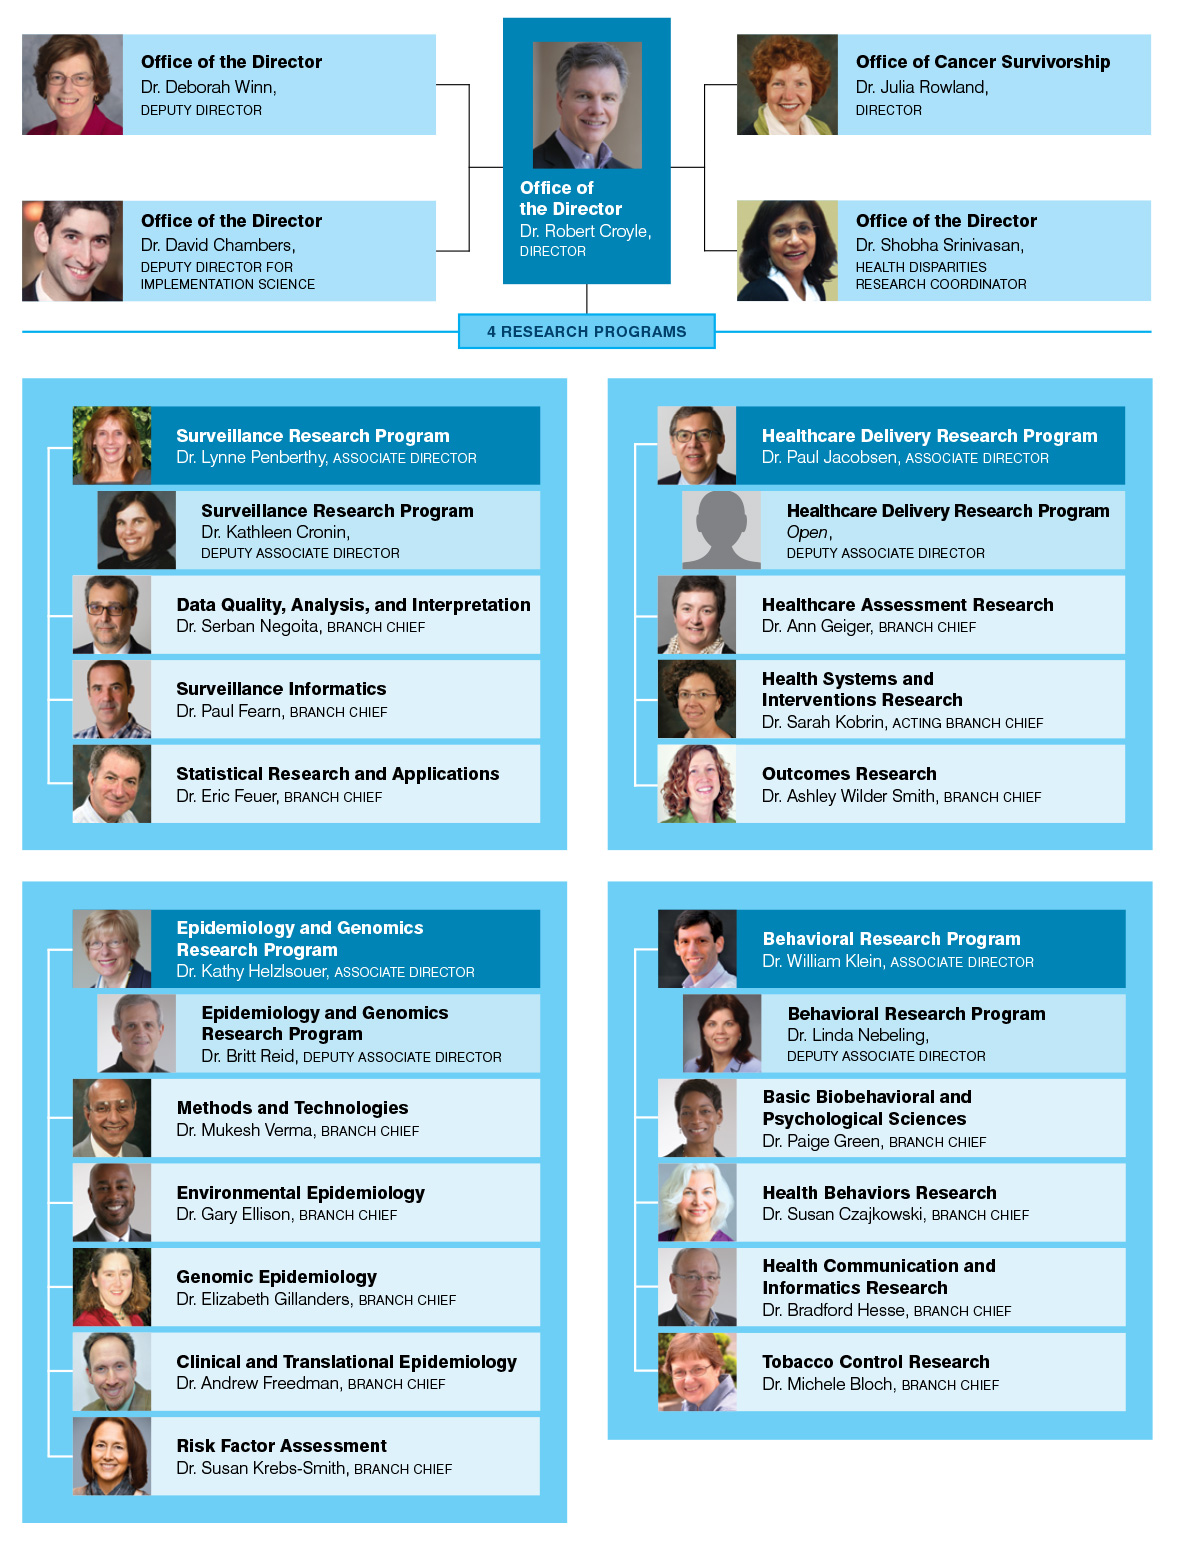
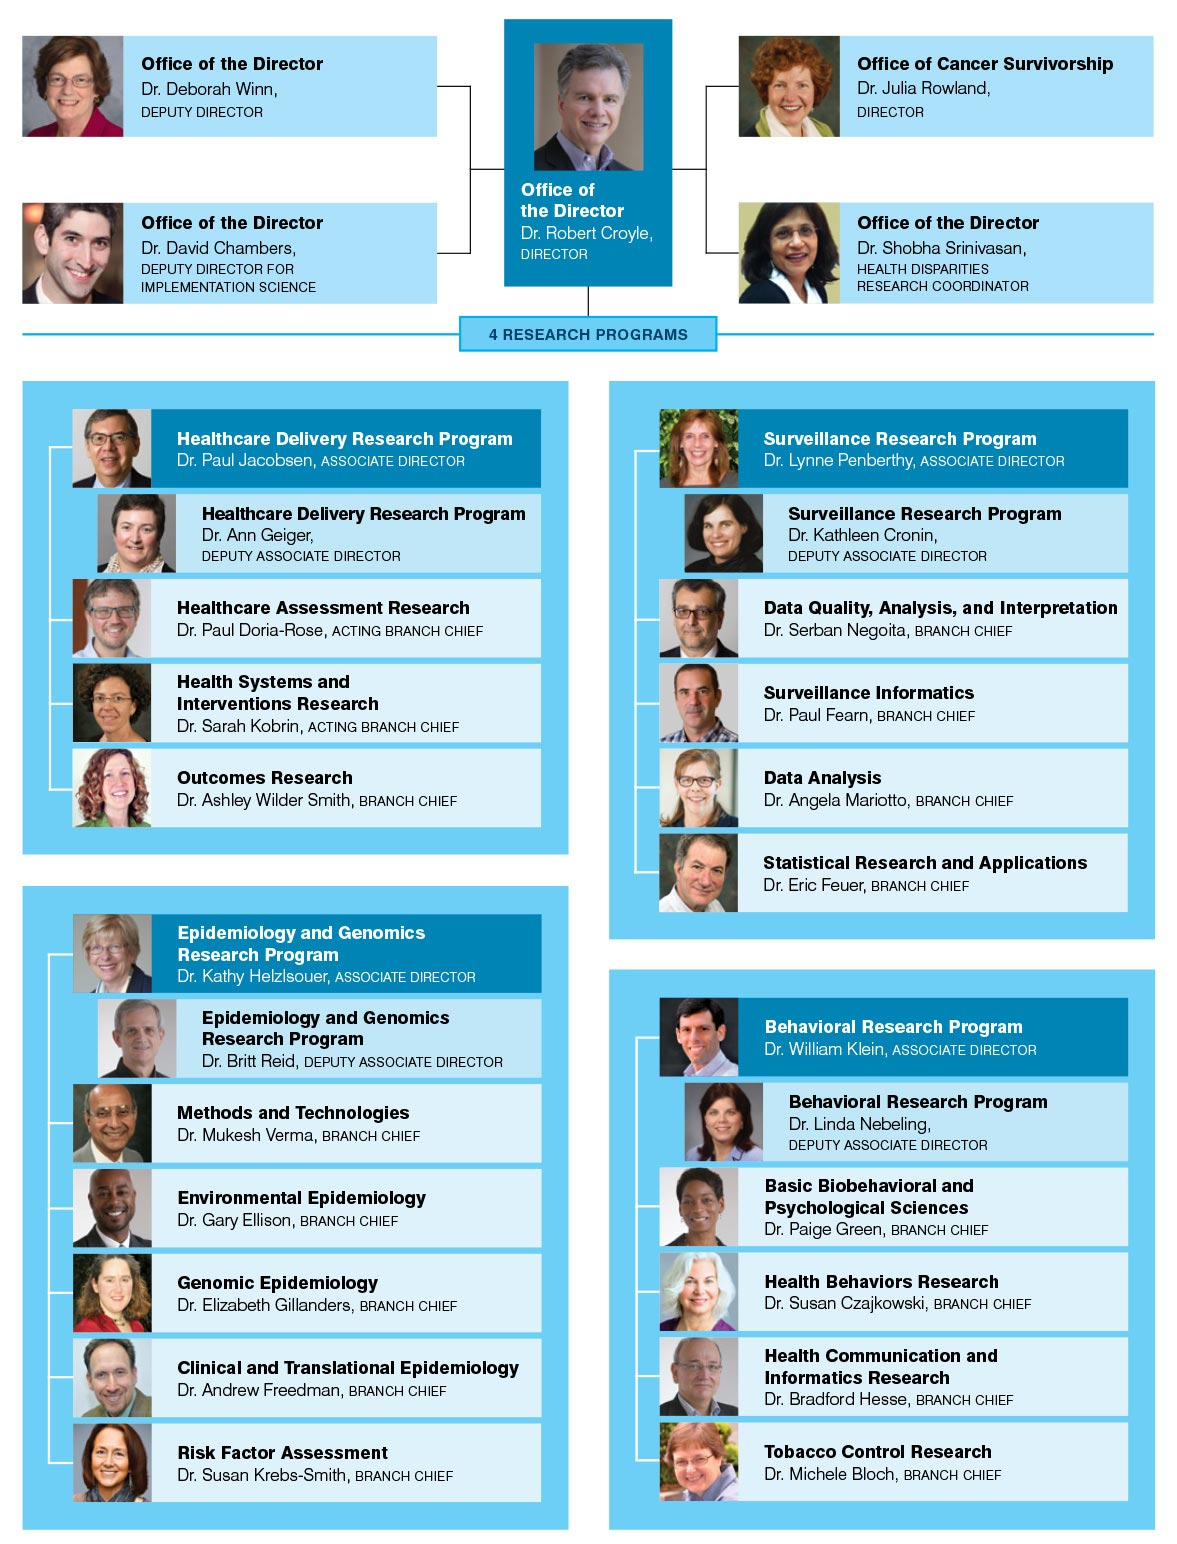
CD: Org chart updates Former-commit-id: 16bb7715312cd43857d8e8b9e0c97db973dfd2dc

diff --git a/od/orgchart.html b/od/orgchart.html
@@ -178,26 +178,27 @@ j=d.createElement(s),dl=l!='dataLayer'?'&l='+l:'';j.async=true;j.src=
                 <div class="span12 listimage">
                   <h1>DCCPS Organization</h1>
                   <img src="../images/bb_org-sm.jpg" alt="Orgchart" width="877" height="1150" border="0" usemap="#map3" />
-                  <map name="map3"><area shape="rect" coords="552,152,865,229" href="/populationhealthcenters/cphhd/" alt="Dr. Shobha Sirnivasan, Health Disparities Research Coordinator"><area shape="rect" coords="491,500,847,562" href="https://healthcaredelivery.cancer.gov/about/" alt="Health Systems and Interventions Research - Dr. Sarah Korbin" ><area shape="rect" coords="491,308,850,370" href="https://healthcaredelivery.cancer.gov/about/" alt="Healthcare Assessment Research - Dr. Paul Jacobson" ><area shape="rect" coords="47,883,410,945" href="https://epi.grants.cancer.gov/eeb/" alt="Environmental Epidemiology - Dr. Gary Ellison"><area shape="rect" coords="510,373,853,433" href="https://healthcaredelivery.cancer.gov/about/" alt="Health Services &amp; Economics Branch - position open"><area shape="rect" coords="510,754,848,816" href="/brp/" alt="Behavioral Research Program - Dr. Linda Nebeling, deputy associate director">
+                  <map name="map3"><area shape="rect" coords="552,152,865,229" href="/od/srinivasan.html" alt="Dr. Shobha Srinivasan, Health Disparities Research Coordinator"><area shape="rect" coords="53,493,403,556" href="https://healthcaredelivery.cancer.gov/about/" alt="Health Systems and Interventions Research - Dr. Sarah Korbin" ><area shape="rect" coords="55,303,407,364" href="https://healthcaredelivery.cancer.gov/about/" alt="Healthcare Assessment Research - Dr. Paul Jacobson" ><area shape="rect" coords="54,870,406,930" href="https://epi.grants.cancer.gov/eeb/" alt="Environmental Epidemiology - Dr. Gary Ellison"><area shape="rect" coords="492,430,844,490" href="https://surveillance.cancer.gov/branches/dqaib/" alt="Data Quality, analysis, and Interpretation - Serban Negoita"><area shape="rect" coords="510,804,848,866" href="/brp/" alt="Behavioral Research Program - Dr. Linda Nebeling, deputy associate director">
                     <area shape="rect" coords="10,152,325,229" href="/IS/chambers.html" alt="Deputy Director for Implementation Science - Dr. David Chambers">
-        <area shape="rect" coords="47,564,409,626" href="https://surveillance.cancer.gov/branches/srab/" alt="Statistical Methodology and Applications - Dr. Eric Feuer">
-        <area shape="rect" coords="46,1012,408,1072" href="https://epi.grants.cancer.gov/cteb/" alt="Clinical and Translational Epidemiology Branch - Dr. Andrew Feedman">
-        <area shape="rect" coords="47,500,409,562" href="https://surveillance.cancer.gov/branches/sib/" alt="Surveillance Informatics - Dr. Paul Fearn">
-        <area shape="rect" coords="46,1075,408,1138" href="https://epi.grants.cancer.gov/staff/krebs-smith.html" alt="Risk Factor Assessment - Dr. Susan Krebs-Smith">
-        <area shape="rect" coords="492,1011,849,1071" href="/brp/tcrb/"  alt="Tobacco Control Research Branch - Dr. Michele Bloch (Acting)" >
-        <area shape="rect" coords="492,883,849,944" href="/brp/hbrb/index.html" alt="Health Behaviors Research Branch - Dr. Susan Czajkowski">
-        <area shape="rect" coords="492,947,848,1008" href="/brp/hcirb/" alt="Health Communication &amp; Informatics Research Branch - Dr. Bradford Hesse">
-        <area shape="rect" coords="47,947,409,1008" href="https://epi.grants.cancer.gov/geb/" alt="Genomic Epidemiology - Dr. Elizabeth Gillanders">
-        <area shape="rect" coords="46,436,409,498" href="https://surveillance.cancer.gov/branches/dqaib/" alt="Data Analysis &amp; Interpretation - Dr. Serban Negoita">
-        <area shape="rect" coords="491,565,848,625" href="https://healthcaredelivery.cancer.gov/about/orb/" alt="Outcomes Research Branch - Dr. Ashley Wilder Smith" >
-        <area shape="rect" coords="492,819,847,880" href="/brp/bbpsb/index.html" alt="Basic Behavioral &amp; Research Branch - Dr. Paige Green" >
-        <area shape="rect" coords="66,753,403,816" href="https://epi.grants.cancer.gov/oad/" alt="Epidemiology &amp; Genomics Research Program - Dr. Britt Reid, deputy associate director">
-        <area shape="rect" coords="65,372,403,432" href="https://surveillance.cancer.gov/" alt="Surveillance Systems - Dr. Kathleen Cronin, deputy associate director">
-        <area shape="rect" coords="490,436,847,496" href="https://healthcaredelivery.cancer.gov/about/staff/bios/geiger.html" alt="Health Services &amp; Economics Branch - Dr. Ann Geiger">
-        <area shape="rect" coords="46,818,409,880" href="https://epi.grants.cancer.gov/mtb/" alt="Methods and Technologies Branch - Dr. Mukesh Verma">
-        <area shape="rect" coords="45,308,404,369" href="https://surveillance.cancer.gov/"  alt="Surveillance Research Program - Dr. Lynn Penberthy, associate director">
-        <area shape="rect" coords="491,690,849,752" href="/brp/" alt="Behavioral Research Program - Dr. William Klein, associate director">
-        <area shape="rect" coords="47,689,402,752" href="https://epi.grants.cancer.gov/oad/" alt="Epidemiology &amp; Genomics Research Program - Kathy Helzlsouer, M.D., M.H.S., associate director">
+        <area shape="rect" coords="491,620,841,682" href="https://surveillance.cancer.gov/branches/srab/" alt="Statistical Methodology and Applications - Dr. Eric Feuer">
+        <area shape="rect" coords="54,995,404,1057" href="https://epi.grants.cancer.gov/cteb/" alt="Clinical and Translational Epidemiology Branch - Dr. Andrew Feedman">
+        <area shape="rect" coords="491,492,842,554" href="https://surveillance.cancer.gov/branches/sib/" alt="Surveillance Informatics - Dr. Paul Fearn">
+        <area shape="rect" coords="54,1058,405,1120" href="https://epi.grants.cancer.gov/staff/krebs-smith.html" alt="Risk Factor Assessment - Dr. Susan Krebs-Smith">
+        <area shape="rect" coords="492,1059,849,1119" href="/brp/tcrb/"  alt="Tobacco Control Research Branch - Dr. Michele Bloch" >
+        <area shape="rect" coords="492,931,849,992" href="/brp/hbrb/index.html" alt="Health Behaviors Research Branch - Dr. Susan Czajkowski">
+        <area shape="rect" coords="492,994,848,1055" href="/brp/hcirb/" alt="Health Communication &amp; Informatics Research Branch - Dr. Bradford Hesse">
+        <area shape="rect" coords="55,933,405,992" href="https://epi.grants.cancer.gov/geb/" alt="Genomic Epidemiology - Dr. Elizabeth Gillanders">
+        <area shape="rect" coords="492,556,841,616" href="https://surveillance.cancer.gov/branches/dqaib/" alt="Data Analysis - Dr. Serban Negoita">
+        <area shape="rect" coords="53,556,403,618" href="https://healthcaredelivery.cancer.gov/about/orb/" alt="Outcomes Research Branch - Dr. Ashley Wilder Smith" >
+        <area shape="rect" coords="54,432,404,492" href="https://healthcaredelivery.cancer.gov/about/harb/" alt="Healthcare Assessment Research - Dr. Paul Doria-Rose" >
+        <area shape="rect" coords="492,868,847,929" href="/brp/bbpsb/index.html" alt="Basic Behavioral &amp; Research Branch - Dr. Paige Green" >
+        <area shape="rect" coords="71,743,408,806" href="https://epi.grants.cancer.gov/oad/" alt="Epidemiology &amp; Genomics Research Program - Dr. Britt Reid, deputy associate director">
+        <area shape="rect" coords="509,367,843,429" href="https://surveillance.cancer.gov/" alt="Surveillance Systems - Dr. Kathleen Cronin, deputy associate director">
+        <area shape="rect" coords="53,367,405,429" href="https://healthcaredelivery.cancer.gov/about/staff/bios/geiger.html" alt="Health Services &amp; Economics Branch - Dr. Ann Geiger">
+        <area shape="rect" coords="53,807,407,867" href="https://epi.grants.cancer.gov/mtb/" alt="Methods and Technologies Branch - Dr. Mukesh Verma">
+        <area shape="rect" coords="491,302,840,365" href="https://surveillance.cancer.gov/"  alt="Surveillance Research Program - Dr. Lynn Penberthy, associate director">
+        <area shape="rect" coords="491,741,849,803" href="/brp/" alt="Behavioral Research Program - Dr. William Klein, associate director">
+        <area shape="rect" coords="52,679,407,742" href="https://epi.grants.cancer.gov/oad/" alt="Epidemiology &amp; Genomics Research Program - Kathy Helzlsouer, M.D., M.H.S., associate director">
         <area shape="rect" coords="7,23,323,103" href="dep_director_dw.html" alt="Deputy Director Dr. Deborah M. Winn">
       <area shape="rect" coords="373,10,505,217" href="view_rtc.html" alt="Officer of the Director Dr. Robert T Croyle, Director">
       <area shape="rect" coords="551,26,865,103" href="/ocs/" alt="Office of Cancer Survivorship - Dr. Julia H. Rowland, Director"></map>
@@ -277,7 +278,7 @@ j=d.createElement(s),dl=l!='dataLayer'?'&l='+l:'';j.async=true;j.src=
           </div>
            </div>
        <div class="last-updated">
-       <p class="center"><strong>Last Updated: <!-- InstanceBeginEditable name="Last Updated" -->September 6, 2016<!-- InstanceEndEditable --></strong></p>
+       <p class="center"><strong>Last Updated: <!-- InstanceBeginEditable name="Last Updated" -->January  10, 2016<!-- InstanceEndEditable --></strong></p>
        <a href="https://www.cancer.gov/contact" class="help-image"><img class="footer-help" src="/images/footer-help-logo.png" alt="help-logo" /></a><p class="can-numb"><strong>1-800-4-CANCER <br /> (1-800-422-6237)</strong></p>
        </div>
        </div><!--/row-->

diff --git a/od/org.html b/od/org.html
@@ -198,7 +198,7 @@ j=d.createElement(s),dl=l!='dataLayer'?'&l='+l:'';j.async=true;j.src=
                       <div class="program-areas-header bottom-border"><a href="/brp/">Behavioral Research Program (BRP)</a></div>
                       <div class="row-fluid bottom-border">
                         <ul>
-                          <li>The Behavioral Research Program (BRP) initiates, supports, and evaluates a comprehensive program of research ranging from basic behavioral research to the development, testing, and dissemination of interventions in areas such as tobacco use, screening, dietary behavior, and sun protection. BRP includes five branches: Basic Biobehavioral and Psychological Sciences Branch, Health Behaviors Research Branch, Health Communication and Informatics Research Branch, and the Tobacco Control Research Branch.</li>
+                          <li>The Behavioral Research Program (BRP) initiates, supports, and evaluates a comprehensive program of research ranging from basic behavioral research to the development, testing, and dissemination of interventions in areas such as tobacco use, screening, dietary behavior, and sun protection. BRP includes four branches: Basic Biobehavioral and Psychological Sciences Branch, Health Behaviors Research Branch, Health Communication and Informatics Research Branch, and the Tobacco Control Research Branch.</li>
                         </ul>
                       </div>
                     </div>
@@ -218,7 +218,7 @@ j=d.createElement(s),dl=l!='dataLayer'?'&l='+l:'';j.async=true;j.src=
                       <div class="program-areas-header bottom-border"><a href="https://healthcaredelivery.cancer.gov/">Healthcare Delivery Research Program (HDRP)</a></div>
                       <div class="row-fluid bottom-border">
                         <ul>
-                          <li>Health care delivery research at NCI is conceptualized as the study of cancer  care, factors influencing care, and outcomes of care.  Cancer care refers to  medical services offered across the cancer continuum, such as screening  individuals not known to have cancer; treating cancer patients; following cancer  survivors for recurrence; and providing psychosocial support at the end of life  for patients and their caregivers.</li>
+                          <li>Health care delivery research at NCI is conceptualized as the study of cancer  care, factors influencing care, and outcomes of care.  Cancer care refers to  medical services offered across the cancer continuum, such as screening  individuals not known to have cancer; treating cancer patients; following cancer  survivors for recurrence; and providing psychosocial support at the end of life  for patients and their caregivers. HDRP includes three branches: the Healthcare Assessment Research Branch, the Health Systems and Interventions Research Branch, and the Outcomes Research Branch.</li>
                         </ul>
                       </div>
                     </div>
@@ -247,7 +247,7 @@ j=d.createElement(s),dl=l!='dataLayer'?'&l='+l:'';j.async=true;j.src=
 Surveillance Research Program (SRP)</a></div>
                       <div class="row-fluid bottom-border">
                         <ul>
-                          <li>The Surveillance Research Program (SRP) plans, directs, coordinates, and evaluates a program of cancer surveillance and health services research involving the collection and analysis of data and the assessment of the impact of health care delivery and other health system factors. The program strives to answer key questions about cancer incidence, mortality, and cancer-related health behaviors in diverse regions and populations of the U.S. The Surveillance, Epidemiology, and End Results (SEER) Program, a major component of the SRP, collects cancer data on a routine basis from designated population-based cancer registries in various areas of the country. The SRP includes the Surveillance Informatics Research Branch, the Data Quality, Analysis, and Interpretation Branch, and the Statistical Research and Applications Branch.</li>
+                          <li>The Surveillance Research Program (SRP) plans, directs, coordinates, and evaluates a program of cancer surveillance and health services research involving the collection and analysis of data and the assessment of the impact of health care delivery and other health system factors. The program strives to answer key questions about cancer incidence, mortality, and cancer-related health behaviors in diverse regions and populations of the U.S. The Surveillance, Epidemiology, and End Results (SEER) Program, a major component of the SRP, collects cancer data on a routine basis from designated population-based cancer registries in various areas of the country. The SRP includes the Surveillance Informatics Research Branch, the Data Quality, Analysis, and Interpretation Branch, the Data Analysis Branch, and the Statistical Research and Applications Branch.</li>
                         </ul>
                       </div>
                     </div>
@@ -328,7 +328,7 @@ Surveillance Research Program (SRP)</a></div>
           </div>
            </div>
        <div class="last-updated">
-       <p class="center"><strong>Last Updated: <!-- InstanceBeginEditable name="Last Updated" -->September 15, 2016<!-- InstanceEndEditable --></strong></p>
+       <p class="center"><strong>Last Updated: <!-- InstanceBeginEditable name="Last Updated" -->January 10, 2017<!-- InstanceEndEditable --></strong></p>
        <a href="https://www.cancer.gov/contact" class="help-image"><img class="footer-help" src="/images/footer-help-logo.png" alt="help-logo" /></a><p class="can-numb"><strong>1-800-4-CANCER <br /> (1-800-422-6237)</strong></p>
        </div>
        </div><!--/row-->

diff --git a/bb/index.html b/bb/index.html
@@ -73,20 +73,20 @@
       </div>
         <div class="tab-pane" id="tab_b">
           <img src="/bb/images/OrgChart-SRP.jpg"  usemap="#imagemap-srp" class="org-chart" alt="Surveillance Research Program" style="max-width:1140px; height:auto;">
-            <map name="imagemap-srp"><area shape="rect" coords="308,328,440,510" href="https://surveillance.cancer.gov/about/bios/tatalovichz.html" alt="Data Quality Analysis and Interpretation: Dr. Zara Tatalovich, Acting Branch Chief"><area shape="rect" coords="496,328,645,495" href="https://surveillance.cancer.gov/about/bios/mariottoa.html" alt="Surveillance Informatics: Dr. Angela Mariotto, Acting Branch Chief"><area shape="rect" coords="711,328,829,511" href="https://surveillance.cancer.gov/about/bios/feuerr.html" alt="Statistical Methods and Modeling: Dr. Eric Feuer, Branch Chief"><area shape="rect" coords="818,148,1050,259" href="https://surveillance.cancer.gov/about/bios/cronink.html" alt="Dr. Kathleen Cronin, Deputy Associate Director">
+            <map name="imagemap-srp"><area shape="rect" coords="199,326,336,508" href="https://surveillance.cancer.gov/about/bios/negoita.html" alt="Data Quality, Analysis, and Interpretation: Dr. Serban Negoita, Branch Chief"><area shape="rect" coords="398,326,545,509" href="https://surveillance.cancer.gov/about/bios/fearnp.html" alt="Surveillance Informatics: Dr. Paul Fearn, Branch Chief"><area shape="rect" coords="611,330,728,497" href="https://surveillance.cancer.gov/about/bios/mariottoa.html" alt="Data Analysis: Dr. Angela Mariotto, Branch Chief"><area shape="rect" coords="808,328,926,511" href="https://surveillance.cancer.gov/about/bios/feuerr.html" alt="Statistical Methods and Modeling: Dr. Eric Feuer, Branch Chief"><area shape="rect" coords="818,148,1050,259" href="https://surveillance.cancer.gov/about/bios/cronink.html" alt="Dr. Kathleen Cronin, Deputy Associate Director">
               <area shape="rect" coords="514,118,768,258" href="https://surveillance.cancer.gov/about/bios/penberthyl.html" alt="Dr. Lynne Penberthy, Associate Director">
             </map>
         </div>
         <div class="tab-pane" id="tab_c">
             <img src="/bb/images/OrgChart-BRP.jpg"  usemap="#imagemap-brp" class="org-chart" alt="Behavioral Research Program" style="max-width:1140px; height:auto;">
             <map name="imagemap-brp"><area shape="rect" coords="197,327,351,509" href="/brp/bbpsb/" alt="Basic Biobehavioral and Psychological Sciences: Dr. Paige Green, Branch Chief"><area shape="rect" coords="401,328,536,509" href="/brp/hbrb/" alt="Health Behaviors Research: Dr. Susan Czajkowski, Branch Chief"><area shape="rect" coords="584,328,741,509" href="/brp/hcirb/" alt="Health Communication and Informatics Research: Dr. Bradford Hesse, Branch Chief"><area shape="rect" coords="806,328,910,509" href="/brp/tcrb/" alt="Tobacco Control Research: Dr. Michele Bloch, Branch Chief"><area shape="rect" coords="819,147,1041,258" href="/brp/" alt="Dr. Linda Nebeling, Deputy Associate Director">
-              <area shape="rect" coords="514,117,769,258" href="/brp/" alt="Dr. William Klein, Associate Director">
+              <area shape="rect" coords="514,118,769,259" href="/brp/" alt="Dr. William Klein, Associate Director">
             </map>
       </div>
         <div class="tab-pane" id="tab_d">
           <img src="/bb/images/OrgChart-HDRP.jpg"  usemap="#imagemap-hdrp" class="org-chart" alt="Healthcare Delivery Research Program" style="max-width:1140px; height:auto;">
-            <map name="imagemap-hdrp"><area shape="rect" coords="303,327,446,508" href="https://healthcaredelivery.cancer.gov/about/staff/bios/geiger.html" alt="Healthcare Assessment Research: Dr. Ann Geiger, Branch Chief"><area shape="rect" coords="498,327,641,508" href="https://healthcaredelivery.cancer.gov/about/staff/bios/kobrin.html" alt="Health Systems and Interventions Research: Dr. Sarah Kobrin, Acting Branch Chief"><area shape="rect" coords="702,327,839,493" href="https://healthcaredelivery.cancer.gov/about/staff/bios/smith.html" alt="Outcomes Research: Dr. Ashley Wilder Smith, Branch Chief"><area shape="rect" coords="818,146,1042,258" href="#" alt="Open, Deputy Associate Director">
-              <area shape="rect" coords="514,117,770,258" href="#" alt="Dr. Paul Jacobsen, Associate Director">
+            <map name="imagemap-hdrp"><area shape="rect" coords="303,327,446,508" href="https://healthcaredelivery.cancer.gov/about/staff/bios/doriarose.html" alt="Healthcare Assessment Research: Dr. Paul Doria-ROse, Acting Branch Chief"><area shape="rect" coords="498,327,641,508" href="https://healthcaredelivery.cancer.gov/about/staff/bios/kobrin.html" alt="Health Systems and Interventions Research: Dr. Sarah Kobrin, Acting Branch Chief"><area shape="rect" coords="702,327,839,493" href="https://healthcaredelivery.cancer.gov/about/staff/bios/smith.html" alt="Outcomes Research: Dr. Ashley Wilder Smith, Branch Chief"><area shape="rect" coords="818,146,1042,258" href="https://healthcaredelivery.cancer.gov/about/staff/bios/geiger.html" alt="Dr. Ann Geiger, Deputy Associate Director">
+              <area shape="rect" coords="514,117,770,258" href="https://healthcaredelivery.cancer.gov/about/staff/bios/jacobsen.html" alt="Dr. Paul Jacobsen, Associate Director">
             </map>
         </div>
         </div>
